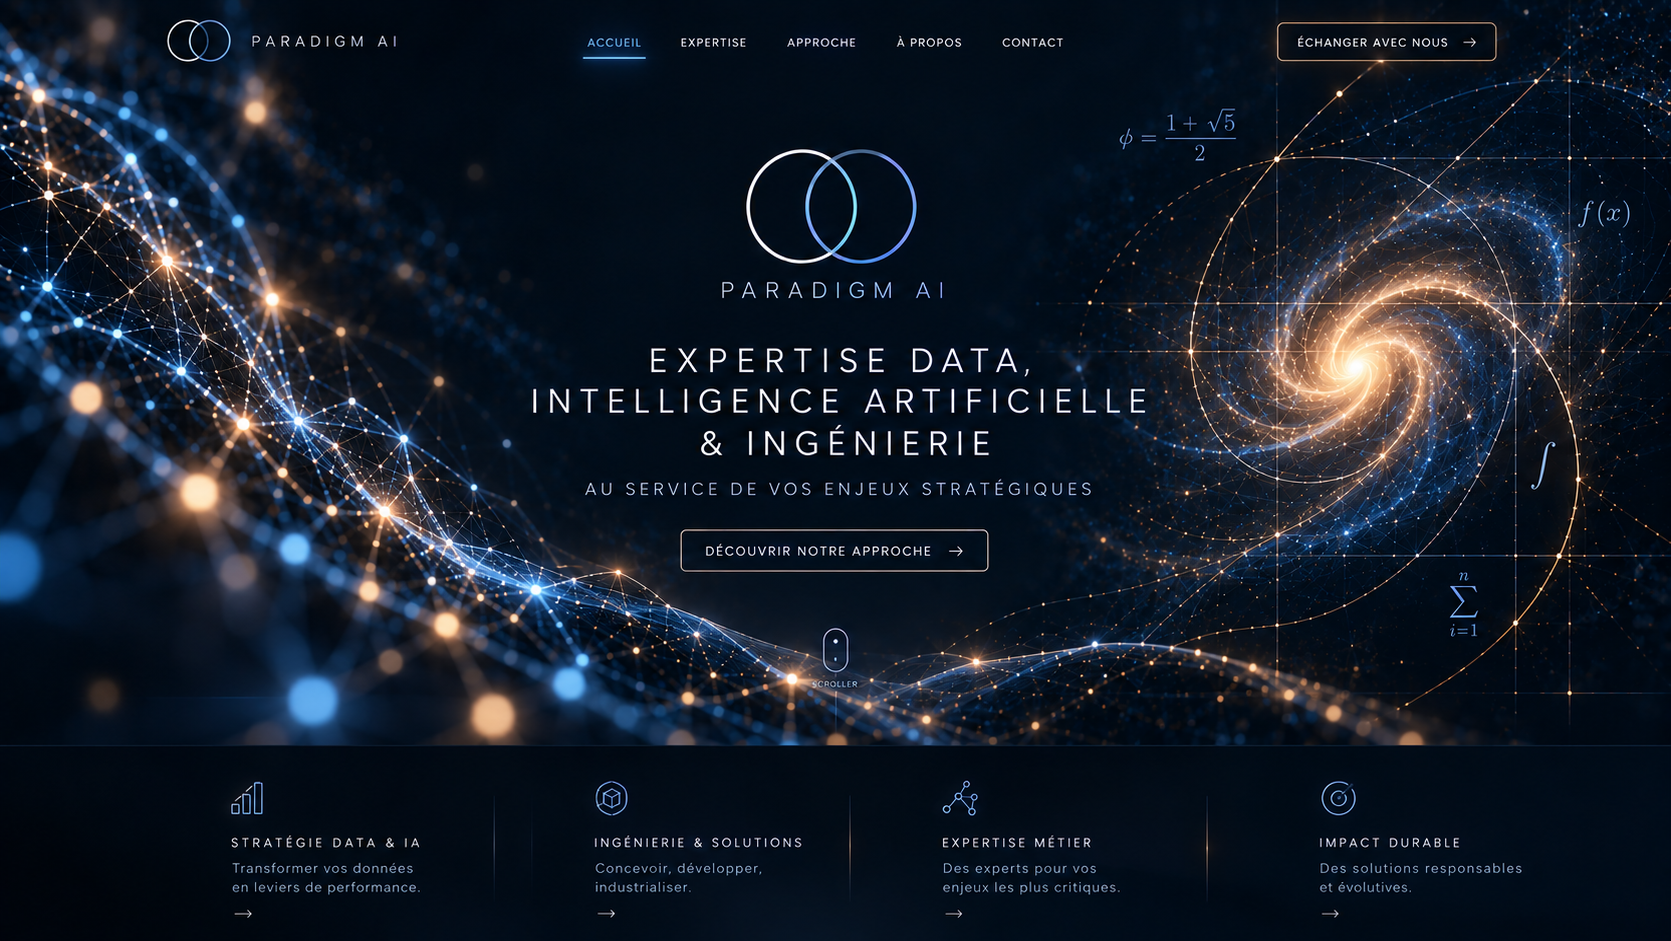
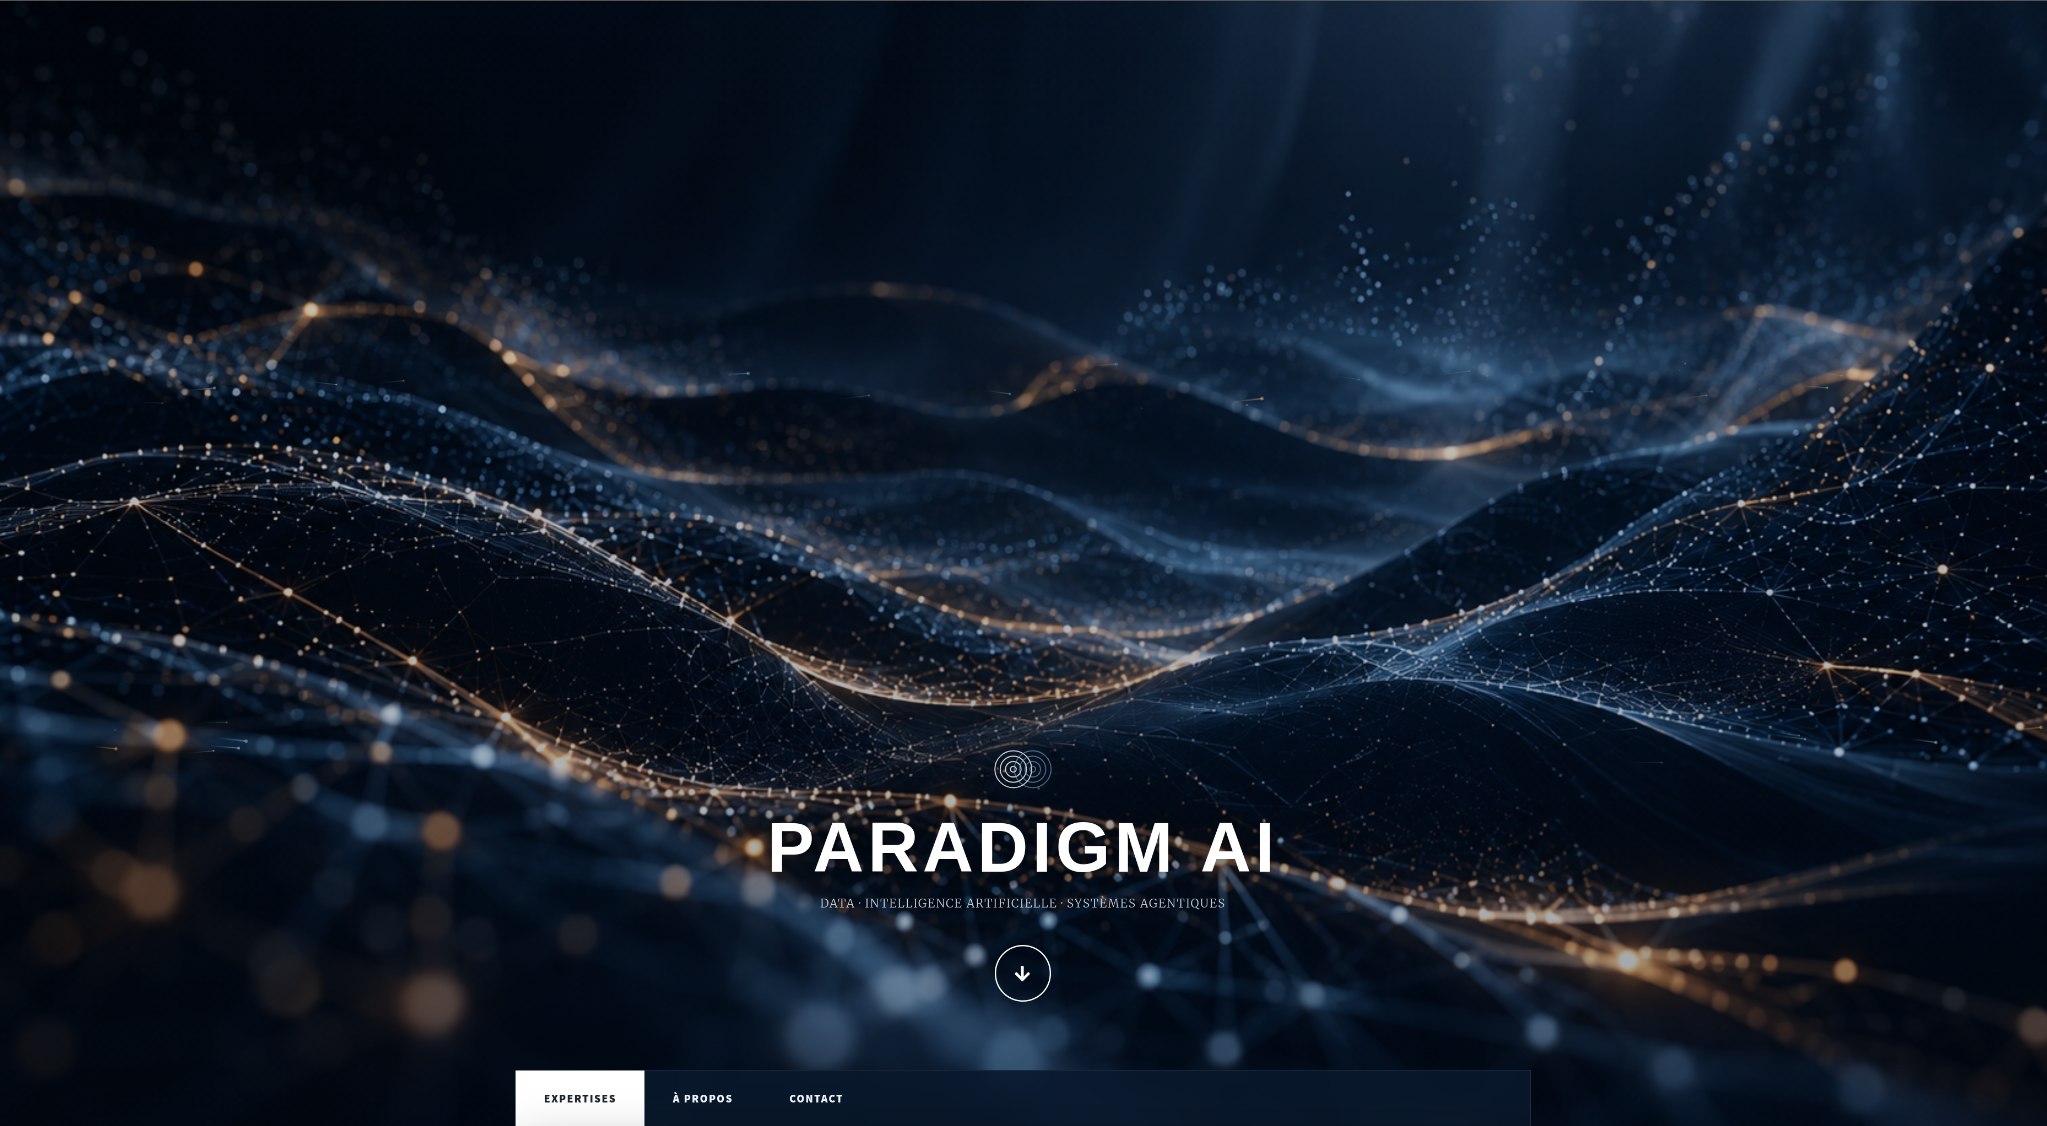
nouveau site legacy cover + sliding corporate v7

diff --git a/assets/css/custom.css b/assets/css/custom.css
@@ -463,3 +463,55 @@ body.paradigm-corporate .corp-main::after {
   body.paradigm-corporate .corp-section {padding:var(--corp-section-y) 0}
   body.paradigm-corporate .corp-footer {padding:2rem 0 3rem}
 }
+
+/* 2026-09 — V7 return to the deployed legacy cover, with the corporate site sliding over it */
+body.paradigm-corporate.home-cinematic::before {
+  background-image:url("../../images/hero-cinematic.png");
+  background-size:cover;
+  background-position:center center;
+  filter:brightness(.78) saturate(.82);
+  transform:none;
+}
+body.paradigm-corporate.home-cinematic::after {
+  background:linear-gradient(180deg,rgba(1,7,15,.06) 0%,rgba(1,7,15,.12) 72%,rgba(1,7,15,.32) 100%);
+}
+body.home-cinematic .cinematic-hero {
+  position:relative;
+  width:100vw;
+  height:100vh;
+  height:100svh;
+  margin:0;
+  overflow:hidden;
+  background:#020914;
+}
+body.home-cinematic .cinematic-hero-art {
+  position:absolute;
+  inset:0;
+  width:100%;
+  height:100%;
+  object-fit:cover;
+  object-position:center center;
+  opacity:1;
+  filter:none;
+}
+body.paradigm-corporate .corp-main {
+  margin-top:0;
+  background:linear-gradient(180deg,rgba(3,12,23,.91),rgba(3,11,21,.94) 18%,rgba(3,11,21,.91) 82%,rgba(3,11,21,.95));
+  backdrop-filter:blur(8px);
+  -webkit-backdrop-filter:blur(8px);
+  box-shadow:0 -30px 90px rgba(0,0,0,.28);
+}
+.legacy-hit,.legacy-scroll {position:absolute;z-index:5;display:block;border:0;background:transparent;text-decoration:none}
+.legacy-hit:focus-visible,.legacy-scroll:focus-visible {outline:2px solid rgba(145,201,255,.95);outline-offset:2px}
+.legacy-expertises {left:20.4%;bottom:0;width:5.5%;height:5.4%}
+.legacy-about {left:25.7%;bottom:0;width:5.7%;height:5.4%}
+.legacy-contact {left:31.3%;bottom:0;width:5.5%;height:5.4%}
+.legacy-scroll {left:48.2%;top:83.3%;width:3.6%;height:8%;border-radius:50%}
+/* The compact navigation appears only after leaving the cover. */
+body.paradigm-corporate .floating-nav:not(.is-visible){opacity:0!important;visibility:hidden!important;transform:translateY(-8px)!important;pointer-events:none!important}
+@media(max-width:736px){
+  body.home-cinematic .cinematic-hero-art{object-fit:cover;object-position:50% 50%;opacity:1}
+  .legacy-hit{display:none}
+  .legacy-scroll{left:43%;top:81%;width:14%;height:10%}
+  body.paradigm-corporate.home-cinematic::before{background-position:center center;filter:brightness(.70) saturate(.76)}
+}

diff --git a/index.html b/index.html
@@ -15,16 +15,12 @@
   <nav class="floating-nav-panel"><a href="#paradigm">Paradigm AI</a><a href="#approche">Notre approche</a><a href="#expertises">Expertises</a><a href="#ecosysteme">Écosystème</a><a href="#contact">Contact</a></nav>
 </div>
 <div id="wrapper">
-  <section class="cinematic-hero" aria-label="Paradigm AI — Data, Intelligence Artificielle et Ingénierie">
+  <section class="cinematic-hero legacy-hero" aria-label="Paradigm AI — Data, Intelligence Artificielle et Systèmes Agentiques">
     <img class="cinematic-hero-art" src="images/hero-cinematic.png" alt="" fetchpriority="high" />
-    <a class="cinematic-hit cinematic-home" href="index.html"><span class="sr-only">Accueil</span></a>
-    <a class="cinematic-hit cinematic-expertise" href="#expertises"><span class="sr-only">Expertises</span></a>
-    <a class="cinematic-hit cinematic-approche" href="#approche"><span class="sr-only">Approche</span></a>
-    <a class="cinematic-hit cinematic-about" href="thisisparadigmai.html"><span class="sr-only">À propos</span></a>
-    <a class="cinematic-hit cinematic-contact" href="#contact"><span class="sr-only">Contact</span></a>
-    <a class="cinematic-hit cinematic-exchange" href="#contact"><span class="sr-only">Échanger avec nous</span></a>
-    <a class="cinematic-hit cinematic-cta" href="#approche"><span class="sr-only">Découvrir notre approche</span></a>
-    <a class="cinematic-hit cinematic-scroll scrolly" href="#paradigm"><span class="sr-only">Découvrir Paradigm AI</span></a>
+    <a class="legacy-hit legacy-expertises" href="#expertises"><span class="sr-only">Expertises</span></a>
+    <a class="legacy-hit legacy-about" href="thisisparadigmai.html"><span class="sr-only">À propos</span></a>
+    <a class="legacy-hit legacy-contact" href="#contact"><span class="sr-only">Contact</span></a>
+    <a class="legacy-scroll scrolly" href="#paradigm" aria-label="Découvrir Paradigm AI"></a>
   </section>
 
   <main class="corp-main">
